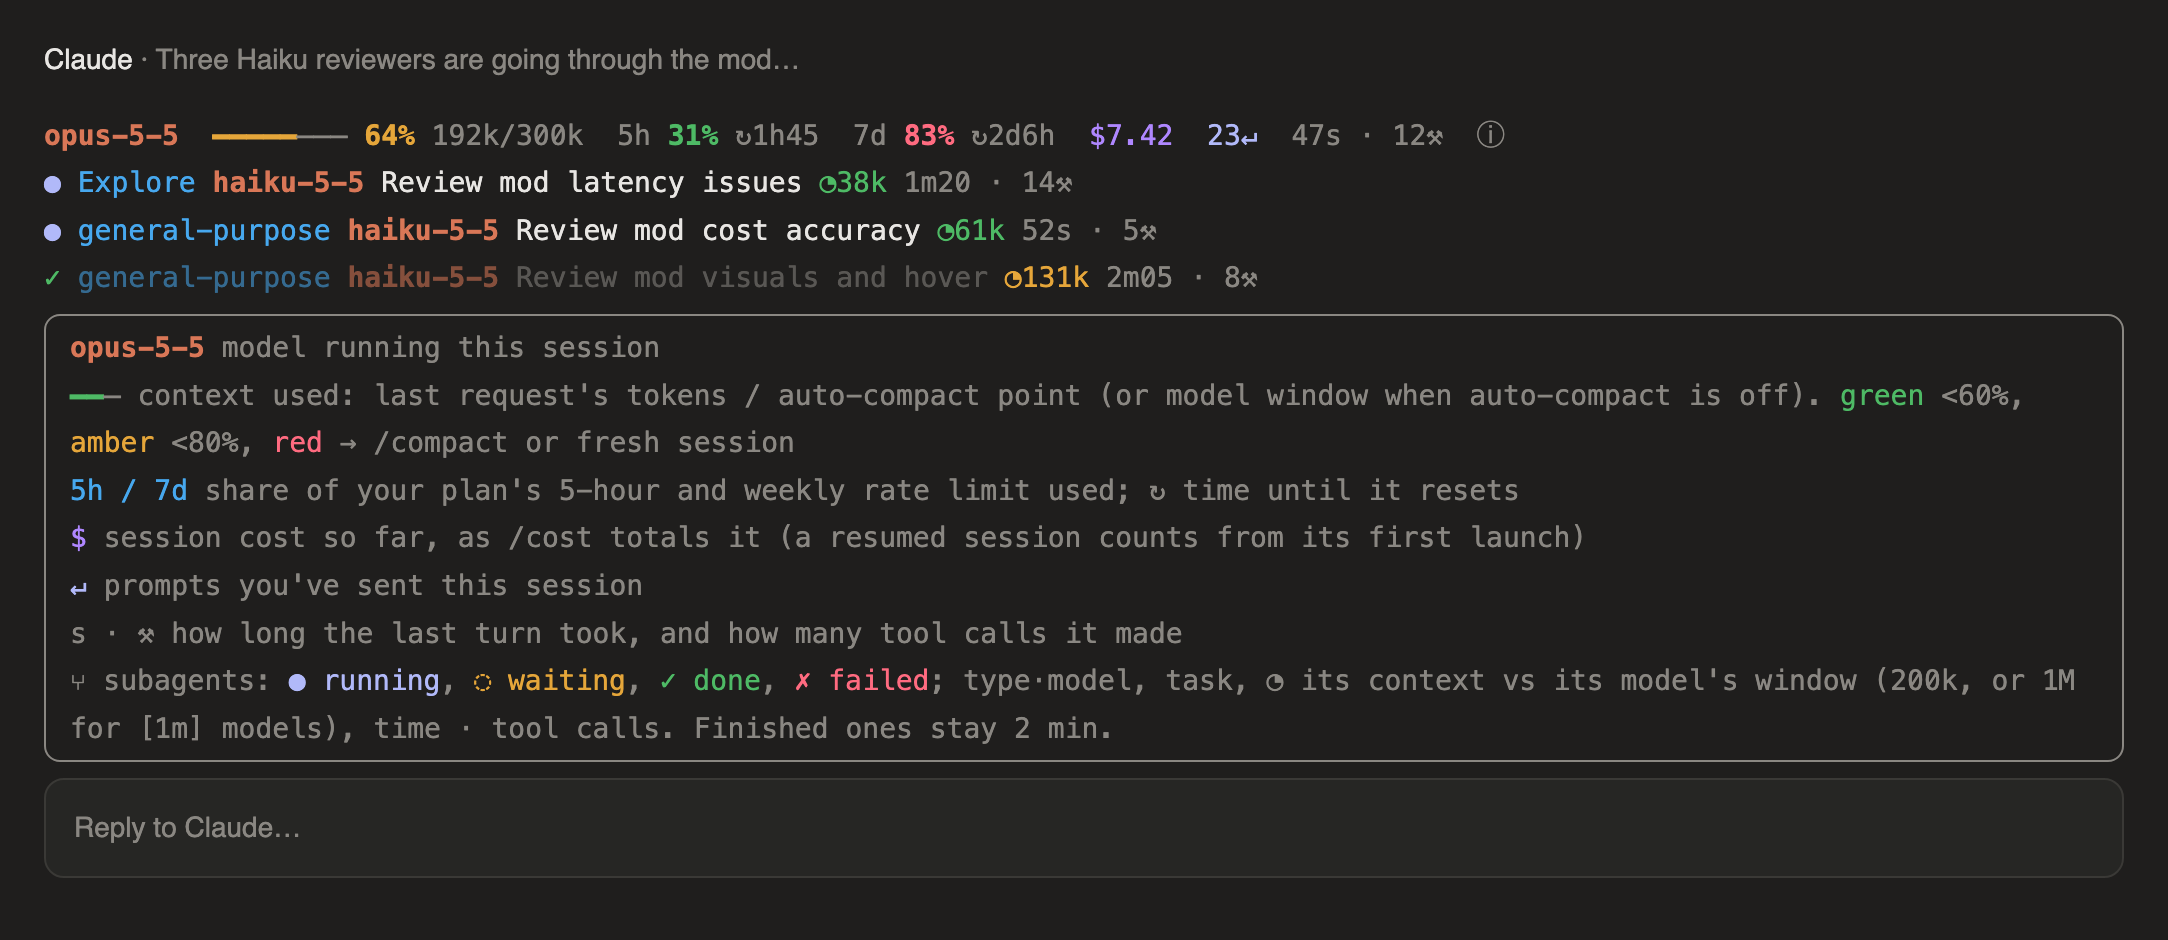
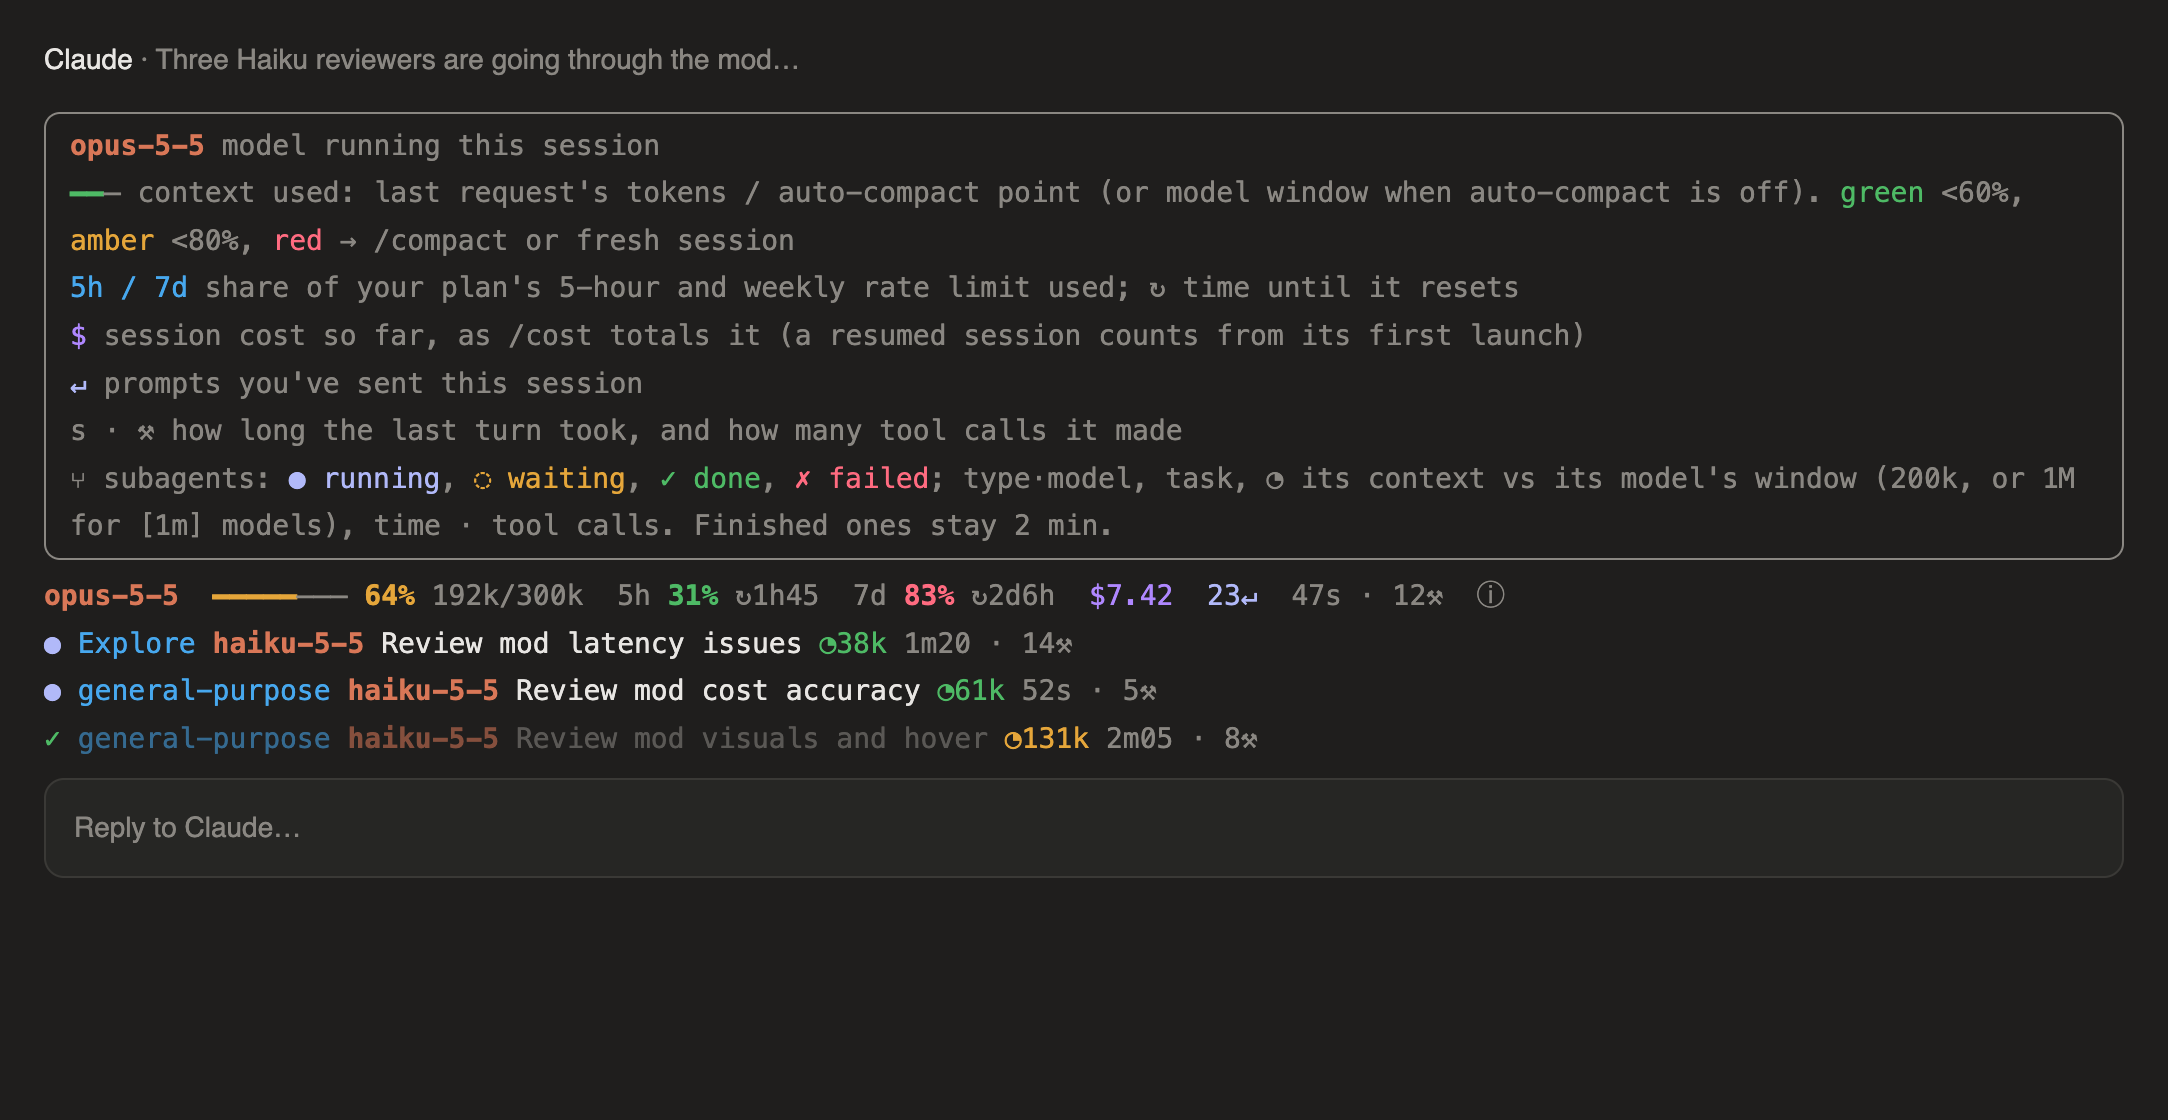
context-meter 0.5.1: legend opens above the band, 300ms hide delay stops hover flicker

Changed region(s): [[0.0, 0.0926, 0.958, 0.833], [0.0, 0.0309, 0.3708, 0.0926], [0.0309, 0.8638, 0.1236, 0.8947]]

diff --git a/context-meter/hooks/register.tsx b/context-meter/hooks/register.tsx
@@ -9,6 +9,7 @@ const LIMIT_WARN = 80
 const TICK_MS = 5000 // redraws ↻ countdowns and live subagent times
 const STALE_MS = 30_000 // with nothing running, still refresh this often
 const LEGEND_DELAY_MS = 700 // a pointer just passing over ⓘ must not open the legend
+const LEGEND_HIDE_MS = 300 // leaving ⓘ for a moment (a redraw, a twitch) must not close it
 const FOLLOW_UP_MS = 1500 // the cost ledger can lag a subagent's turn.complete
 const PLACEHOLDER_WINDOW = 200_000
 const LEGEND_KEY = 'legend-trigger'
@@ -35,6 +36,7 @@ let lastRefresh = 0
 let tick: Timer | undefined
 let followUp: Timer | undefined
 let legendTimer: Timer | undefined
+let legendHide: Timer | undefined
 
 const pickCut = (b?: { autoCompactThreshold?: number; isAutoCompactEnabled: boolean }): Cut =>
   b ? { autoCompactThreshold: b.autoCompactThreshold, isAutoCompactEnabled: b.isAutoCompactEnabled } : {}
@@ -146,8 +148,10 @@ export const register: Register = on => {
     const r = await next(e)
     followUp?.cancel()
     legendTimer?.cancel()
+    legendHide?.cancel()
     followUp = undefined
     legendTimer = undefined
+    legendHide = undefined
     seen.clear()
     warned.clear()
     last = null
@@ -242,10 +246,16 @@ export const register: Register = on => {
   // The ⓘ on Client surfaces: open the legend only after a short hover.
   on('ui.message', ($, e, next) => {
     if (e.element === LEGEND_KEY) {
-      legendTimer?.cancel()
-      legendTimer = undefined
-      if (e.data === 'enter') legendTimer = $.clock.after(LEGEND_DELAY_MS, () => void setLegend($, true))
-      else if (e.data === 'leave') void setLegend($, false)
+      if (e.data === 'enter') {
+        legendHide?.cancel()
+        legendHide = undefined
+        legendTimer ??= $.clock.after(LEGEND_DELAY_MS, () => void setLegend($, true))
+      } else if (e.data === 'leave') {
+        legendTimer?.cancel()
+        legendTimer = undefined
+        legendHide?.cancel()
+        legendHide = $.clock.after(LEGEND_HIDE_MS, () => void setLegend($, false))
+      }
     }
     return next(e)
   })
@@ -264,6 +274,31 @@ export const register: Register = on => {
 
     return (
       <Box key="meter" flexDirection="column">
+        {/* The legend sits above line 1: the band is pinned to the prompt, so it grows upward and ⓘ stays put. */}
+        {legend ? (
+          <Box key="legend-card" flexDirection="column" borderStyle="round" borderColor="subtle" paddingX={1}>
+            <Text><Text color="claude" bold>{s.model}</Text><Text color="subtle">  model running this session</Text></Text>
+            <Text>
+              <Text color="success">━━─</Text>
+              <Text color="subtle"> context used: last request's tokens / auto-compact point (or model window when auto-compact is off). </Text>
+              <Text color="success">green</Text><Text color="subtle"> &lt;60%, </Text>
+              <Text color="warning">amber</Text><Text color="subtle"> &lt;80%, </Text>
+              <Text color="error">red</Text><Text color="subtle"> → /compact or fresh session</Text>
+            </Text>
+            <Text><Text color="ide">5h / 7d</Text><Text color="subtle">  share of your plan's 5-hour and weekly rate limit used; ↻ time until it resets</Text></Text>
+            <Text><Text color="merged">$</Text><Text color="subtle">  session cost so far, as /cost totals it (a resumed session counts from its first launch)</Text></Text>
+            <Text><Text color="suggestion">↵</Text><Text color="subtle">  prompts you've sent this session</Text></Text>
+            <Text color="subtle">s · ⚒  how long the last turn took, and how many tool calls it made</Text>
+            <Text>
+              <Text color="subtle">⑂ subagents: </Text>
+              <Text color="suggestion">● running</Text><Text color="subtle">, </Text>
+              <Text color="warning">◌ waiting</Text><Text color="subtle">, </Text>
+              <Text color="success">✓ done</Text><Text color="subtle">, </Text>
+              <Text color="error">✗ failed</Text>
+              <Text color="subtle">; type·model, task, ◔ its context (green/amber/red vs its model's window: 200k, or 1M for [1m] models), time running · tool calls. Finished ones stay 2 min.</Text>
+            </Text>
+          </Box>
+        ) : null}
         <Box key="line" flexDirection="row" flexWrap="wrap" gap={2}>
           <Text color="claude" bold>{s.model}</Text>
           {s.ctx ? (
@@ -312,30 +347,6 @@ export const register: Register = on => {
                 </Box>
               )
             })}
-          </Box>
-        ) : null}
-        {legend ? (
-          <Box key="legend-card" flexDirection="column" borderStyle="round" borderColor="subtle" paddingX={1}>
-            <Text><Text color="claude" bold>{s.model}</Text><Text color="subtle">  model running this session</Text></Text>
-            <Text>
-              <Text color="success">━━─</Text>
-              <Text color="subtle"> context used: last request's tokens / auto-compact point (or model window when auto-compact is off). </Text>
-              <Text color="success">green</Text><Text color="subtle"> &lt;60%, </Text>
-              <Text color="warning">amber</Text><Text color="subtle"> &lt;80%, </Text>
-              <Text color="error">red</Text><Text color="subtle"> → /compact or fresh session</Text>
-            </Text>
-            <Text><Text color="ide">5h / 7d</Text><Text color="subtle">  share of your plan's 5-hour and weekly rate limit used; ↻ time until it resets</Text></Text>
-            <Text><Text color="merged">$</Text><Text color="subtle">  session cost so far, as /cost totals it (a resumed session counts from its first launch)</Text></Text>
-            <Text><Text color="suggestion">↵</Text><Text color="subtle">  prompts you've sent this session</Text></Text>
-            <Text color="subtle">s · ⚒  how long the last turn took, and how many tool calls it made</Text>
-            <Text>
-              <Text color="subtle">⑂ subagents: </Text>
-              <Text color="suggestion">● running</Text><Text color="subtle">, </Text>
-              <Text color="warning">◌ waiting</Text><Text color="subtle">, </Text>
-              <Text color="success">✓ done</Text><Text color="subtle">, </Text>
-              <Text color="error">✗ failed</Text>
-              <Text color="subtle">; type·model, task, ◔ its context (green/amber/red vs its model's window: 200k, or 1M for [1m] models), time running · tool calls. Finished ones stay 2 min.</Text>
-            </Text>
           </Box>
         ) : null}
       </Box>

diff --git a/context-meter/hooks/band.test.tsx b/context-meter/hooks/band.test.tsx
@@ -47,7 +47,14 @@ test('legend opens after a 700ms hover on ⓘ and closes when the pointer leaves
   expect(await legend()).toBeFalsy() // a pass over ⓘ is not a hover
   await clock.advance(400)
   expect(await legend()).toBeTruthy()
+  // a brief leave/enter (the card reflowing under the pointer) keeps it open
   await ui.pointer({ type: 'leave', x: 0, y: 0, in: 'legend-trigger' })
+  await clock.advance(100)
+  await ui.pointer({ type: 'enter', x: 0, y: 0, in: 'legend-trigger' })
+  await clock.advance(500)
+  expect(await legend()).toBeTruthy()
+  await ui.pointer({ type: 'leave', x: 0, y: 0, in: 'legend-trigger' })
+  await clock.advance(300)
   expect(await legend()).toBeFalsy()
   await ui.unmount()
 })
